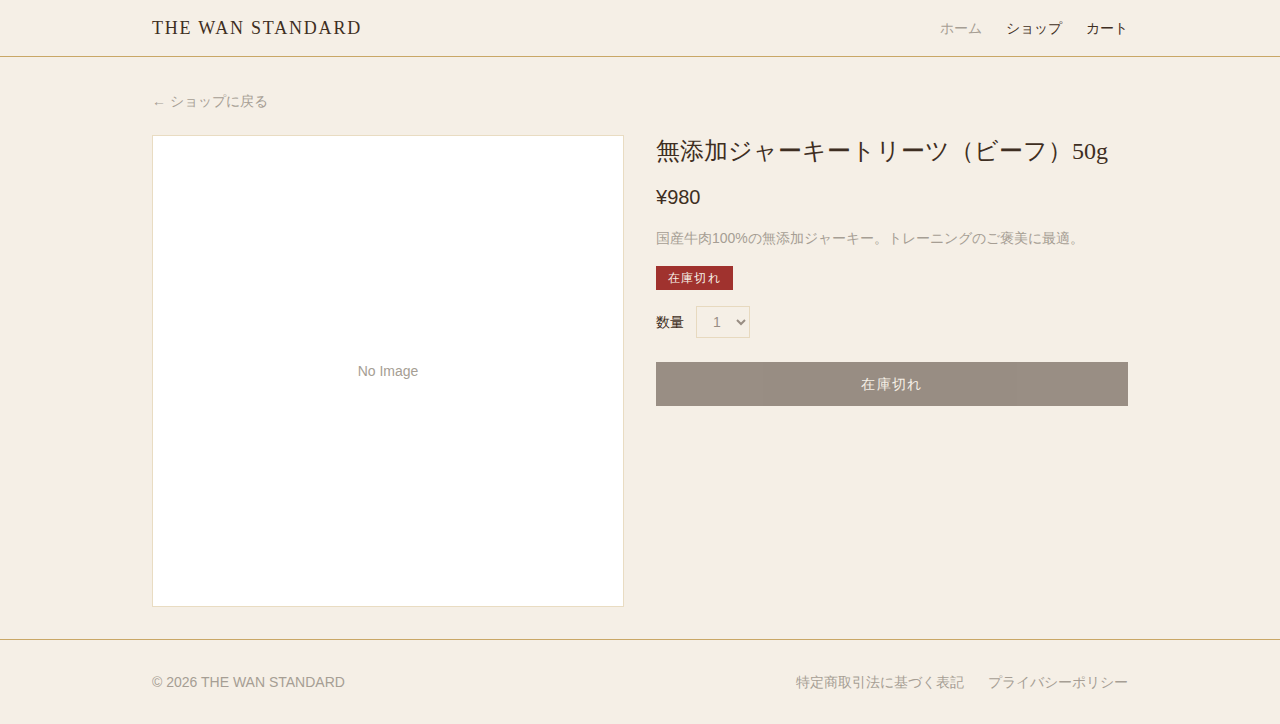
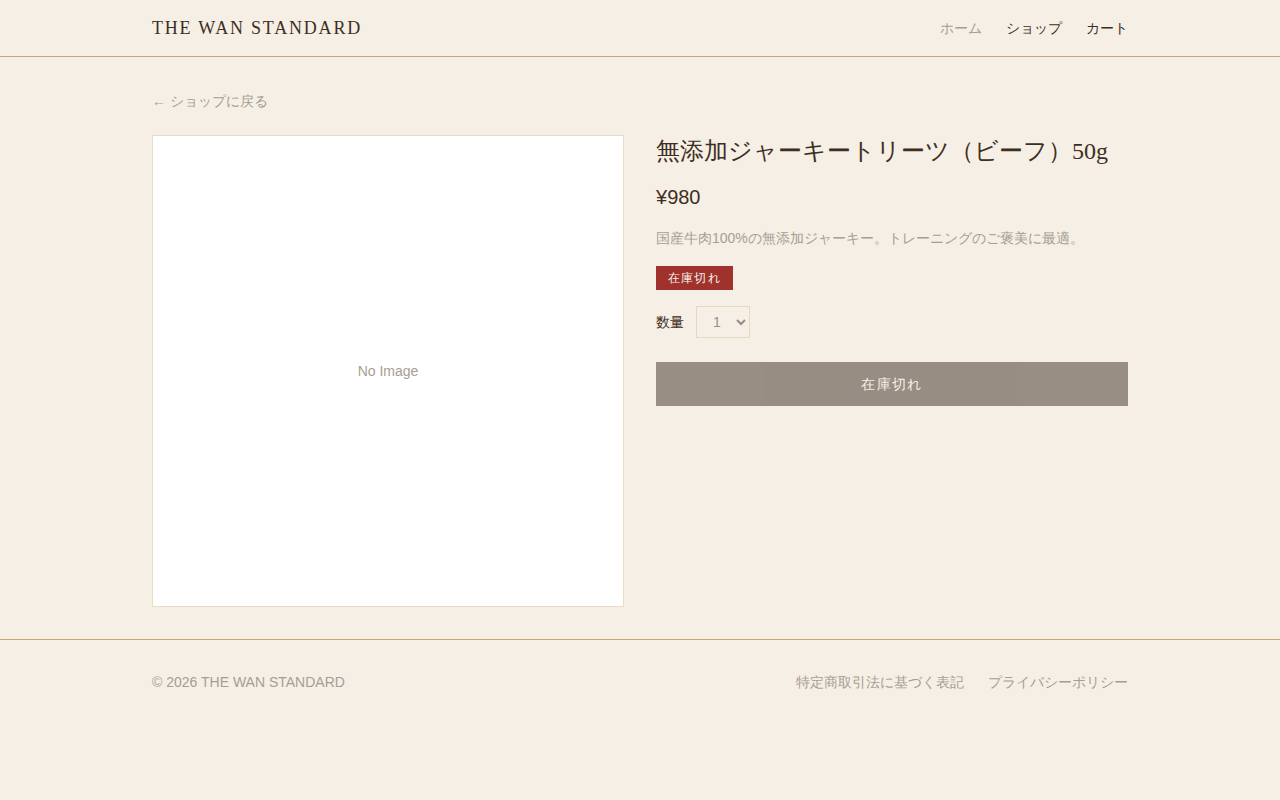
fix(pet-740): playwright.config type + retries; refresh screenshots
- viewport override ordering fix: spread devices["Desktop Chrome"] first,
  then explicit viewport. resolves Next.js tsc "specified more than once".
- retries: 2 for production-network regression resilience (test 3 talks
  to thewanstandard.jp end-to-end and is subject to CDN flake).
- refresh screenshots + playwright-report.json from latest green run.

diff --git a/state/pet740-stock-ux/playwright.config.ts b/state/pet740-stock-ux/playwright.config.ts
@@ -6,10 +6,11 @@ export default defineConfig({
   expect: { timeout: 15_000 },
   fullyParallel: false,
   workers: 1,
+  retries: 2,
   reporter: [["list"], ["json", { outputFile: "evidence/logs/playwright-report.json" }]],
   use: {
-    viewport: { width: 1280, height: 800 },
     ...devices["Desktop Chrome"],
+    viewport: { width: 1280, height: 800 },
     trace: "retain-on-failure",
     video: "retain-on-failure",
   },
